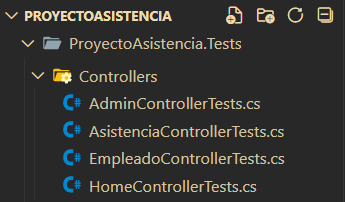
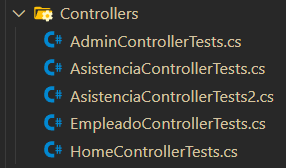
reporte de pruebas unitarias #20

diff --git a/Informe-Calidad.md b/Informe-Calidad.md
@@ -251,13 +251,14 @@ no se encontraron errores en el código
 ![snyk](./media/snyk.png)
 
 
-**Reporte de Cobertura de Pruebas Unitarias**
+## **Reporte de Cobertura de Pruebas Unitarias**
 
 El objetivo del reporte de cobertura es evaluar qué porcentaje del código fuente ha sido ejecutado durante las pruebas automatizadas, ayudando a identificar áreas no probadas, garantizar la calidad del software, fomentar pruebas más exhaustivas y guiar el mantenimiento del código. Proporciona métricas claras para medir el progreso de las pruebas y priorizar esfuerzos en áreas críticas, reduciendo el riesgo de errores y asegurando que el software sea más robusto y confiable.
 
-![reporte_cobertura](./media/reporte_cobertura.png)
+![reporte_cobertura](./media/reporte_cobertura_1.jpg)
+![reporte_cobertura](./media/reporte_cobertura_2.jpg)
 
-**Tests Creados**
+### **Tests Creados**
 
 ![controller_tests](./media/controller_tests.png)
 
@@ -288,6 +289,18 @@ El objetivo del reporte de cobertura es evaluar qué porcentaje del código fuen
     * AgregarEmpleado: Valida tanto los casos de éxito como los errores en el registro de empleados (por ejemplo, cuando el modelo es inválido).
     * VerEmpleados: Comprueba que la lista de empleados se carga correctamente.
     * Actualización de la lista: Asegura que, tras agregar un empleado, la lista se actualiza adecuadamente y refleja los cambios esperados.
+
+5. AsistenciaControllerTests2.cs
+* Objetivo: Validar funcionalidades adicionales del controlador AsistenciaController relacionadas con el manejo de asistencias y vistas complementarias.
+* Cobertura de pruebas:
+    * Index: Comprueba que el método retorna una vista con el modelo esperado de tipo List<Asistencia>.
+    * RegistrarAsistencia (GET): Valida que se retorna una vista con la lista de empleados en el ViewData.
+    * RegistrarAsistencia (POST):
+        * Caso exitoso: Verifica que una asistencia se agrega correctamente cuando el empleado existe, redirigiendo al método Historial.
+        * Caso fallido: Valida que retorna un BadRequest con un mensaje adecuado cuando el empleado no es encontrado.
+    * Historial: Asegura que retorna una vista con un modelo de tipo List<Asistencia>.
+
+
 
 ![model_tests](./media/model_tests.png)
 
@@ -321,7 +334,7 @@ Caso inválido: Prueba un escenario en el que una propiedad requerida no está c
     * Caso Vacío: Confirma que ShowRequestId retorna false cuando RequestId está vacío.
     * Caso Válido: Asegura que ShowRequestId devuelve true cuando RequestId contiene un valor válido.
 
-![view_tests](./media/view_tests.png)
+![view_tests](./media/view_test.png)
 
 1. AdminViewTest.cs
 * Objetivo: Validar el correcto funcionamiento de las vistas relacionadas con la administración en el proyecto.
@@ -354,6 +367,22 @@ Caso inválido: Prueba un escenario en el que una propiedad requerida no está c
 * Cobertura de pruebas:
     * Index: Comprueba que el método Index devuelve un resultado de tipo ViewResult.
     * Privacy: Verifica que el método Privacy también devuelve un resultado de tipo ViewResult.
+
+5. ErrorViewModelTests.cs
+* Objetivo: Validar la funcionalidad del modelo ErrorViewModel en la gestión de identificadores de solicitud (RequestId).
+* Cobertura de pruebas:
+    * ShowRequestId (true): Comprueba que ShowRequestId retorna verdadero cuando RequestId no es nulo ni vacío.
+    * ShowRequestId (false): Valida que ShowRequestId retorna falso cuando RequestId es nulo o vacío.
+
+6. IndexModelTests.cs
+* Objetivo: Validar el correcto funcionamiento de la página de inicio (Index) del módulo de asistencia.
+* Cobertura de pruebas:
+    * OnGet: Verifica que la ejecución del método OnGet no genera excepciones.
+
+7. RegistrarAsistenciaModelTests.cs
+* Objetivo: Asegurar que el modelo de la vista para registrar asistencias opera correctamente.
+* Cobertura de pruebas:
+    * OnGet: Valida que el método OnGet no arroje excepciones durante su ejecución.
 
 
 
